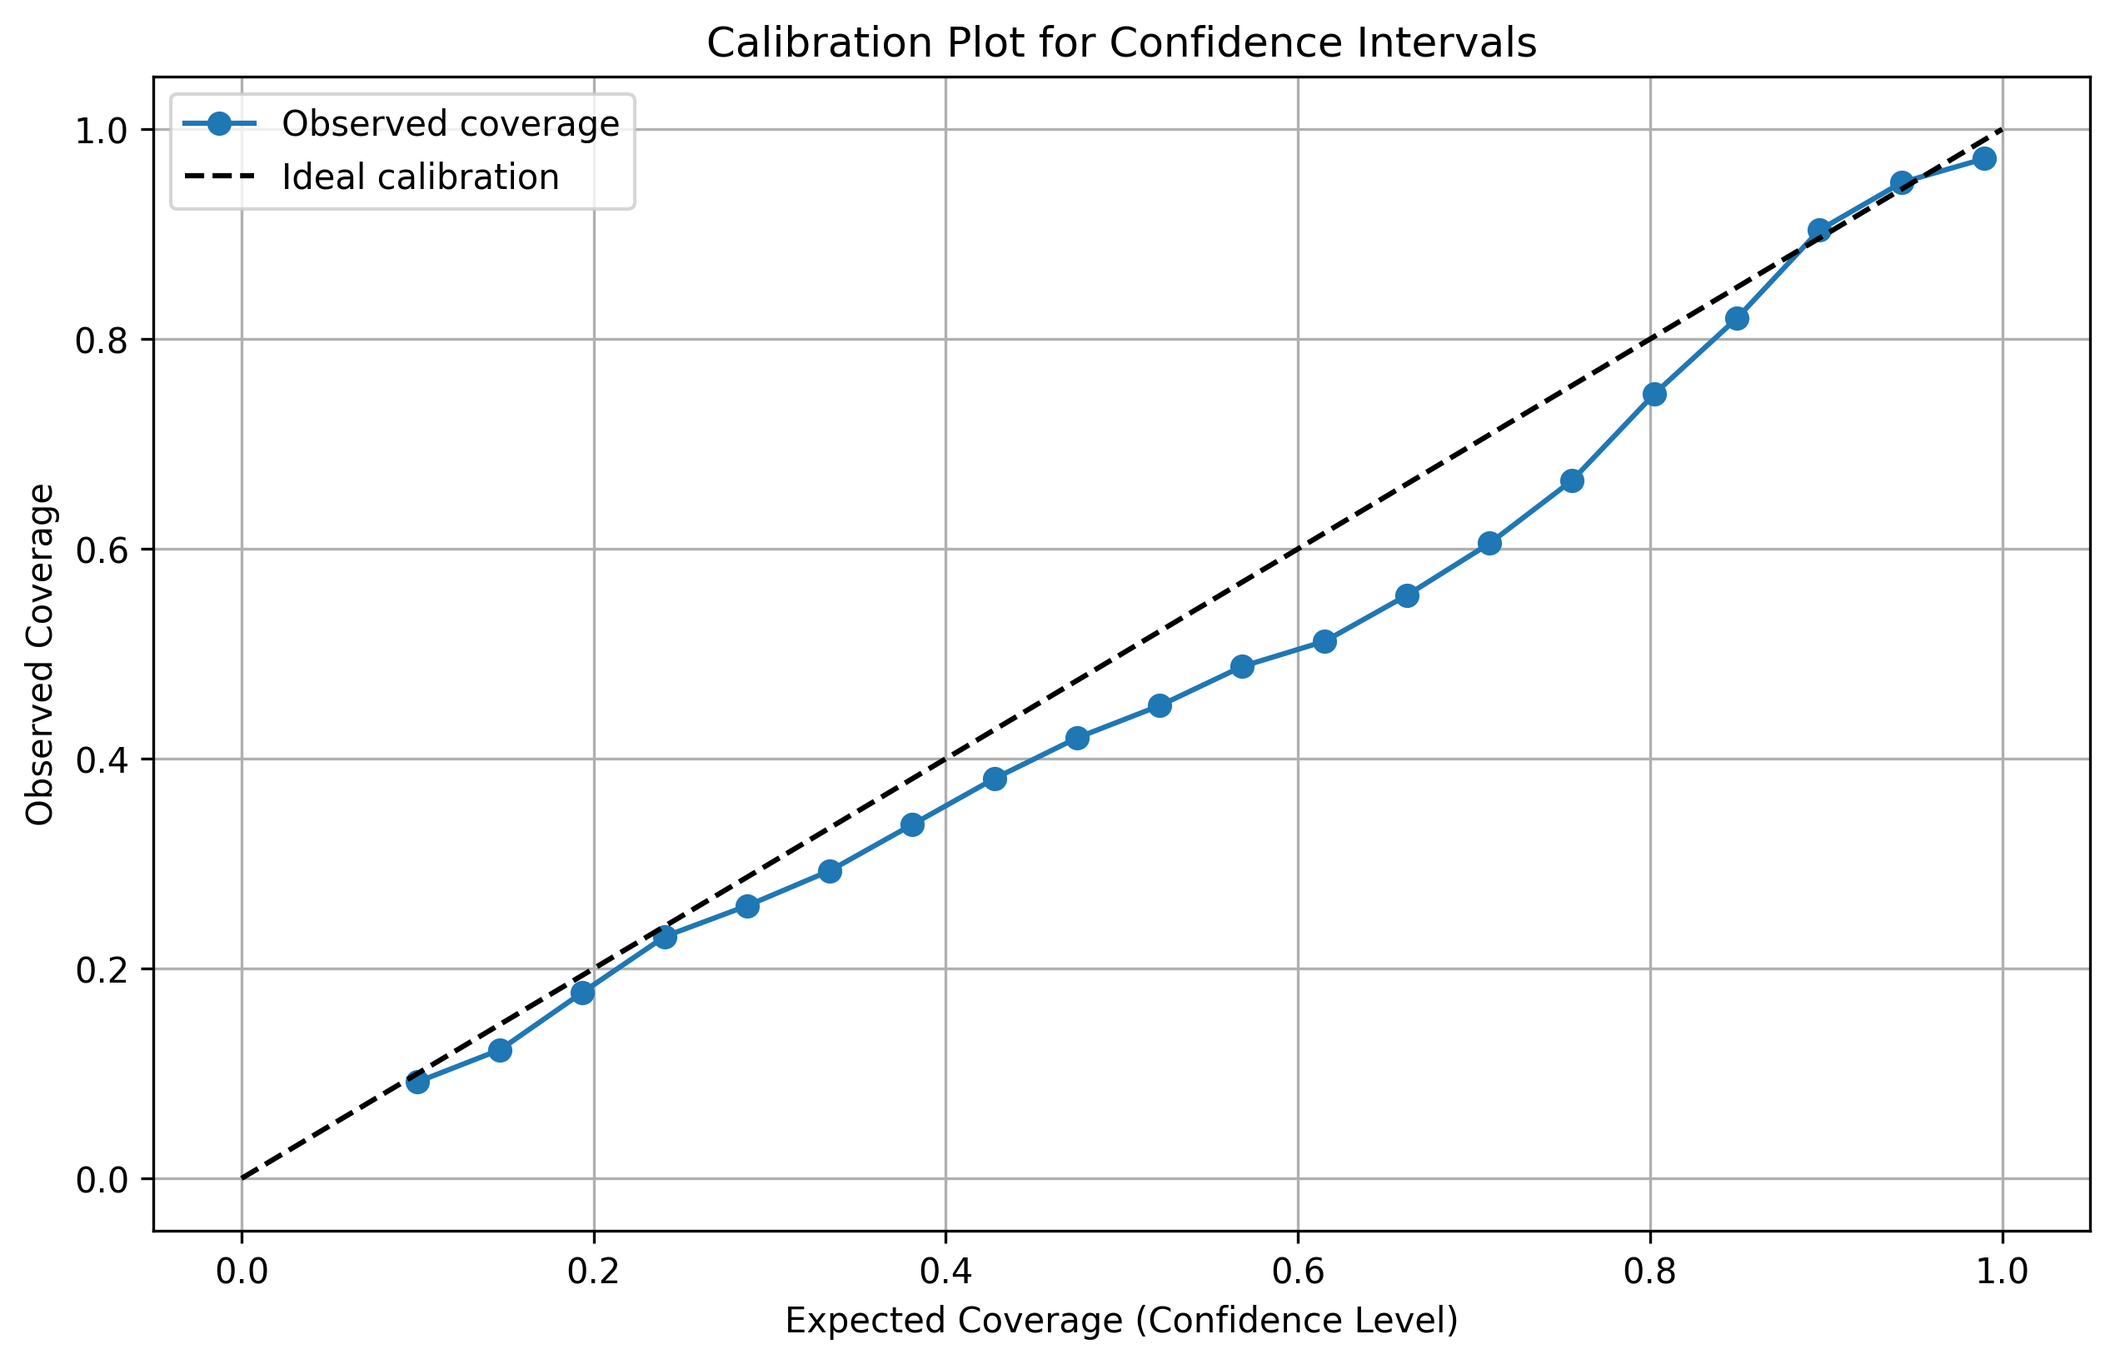
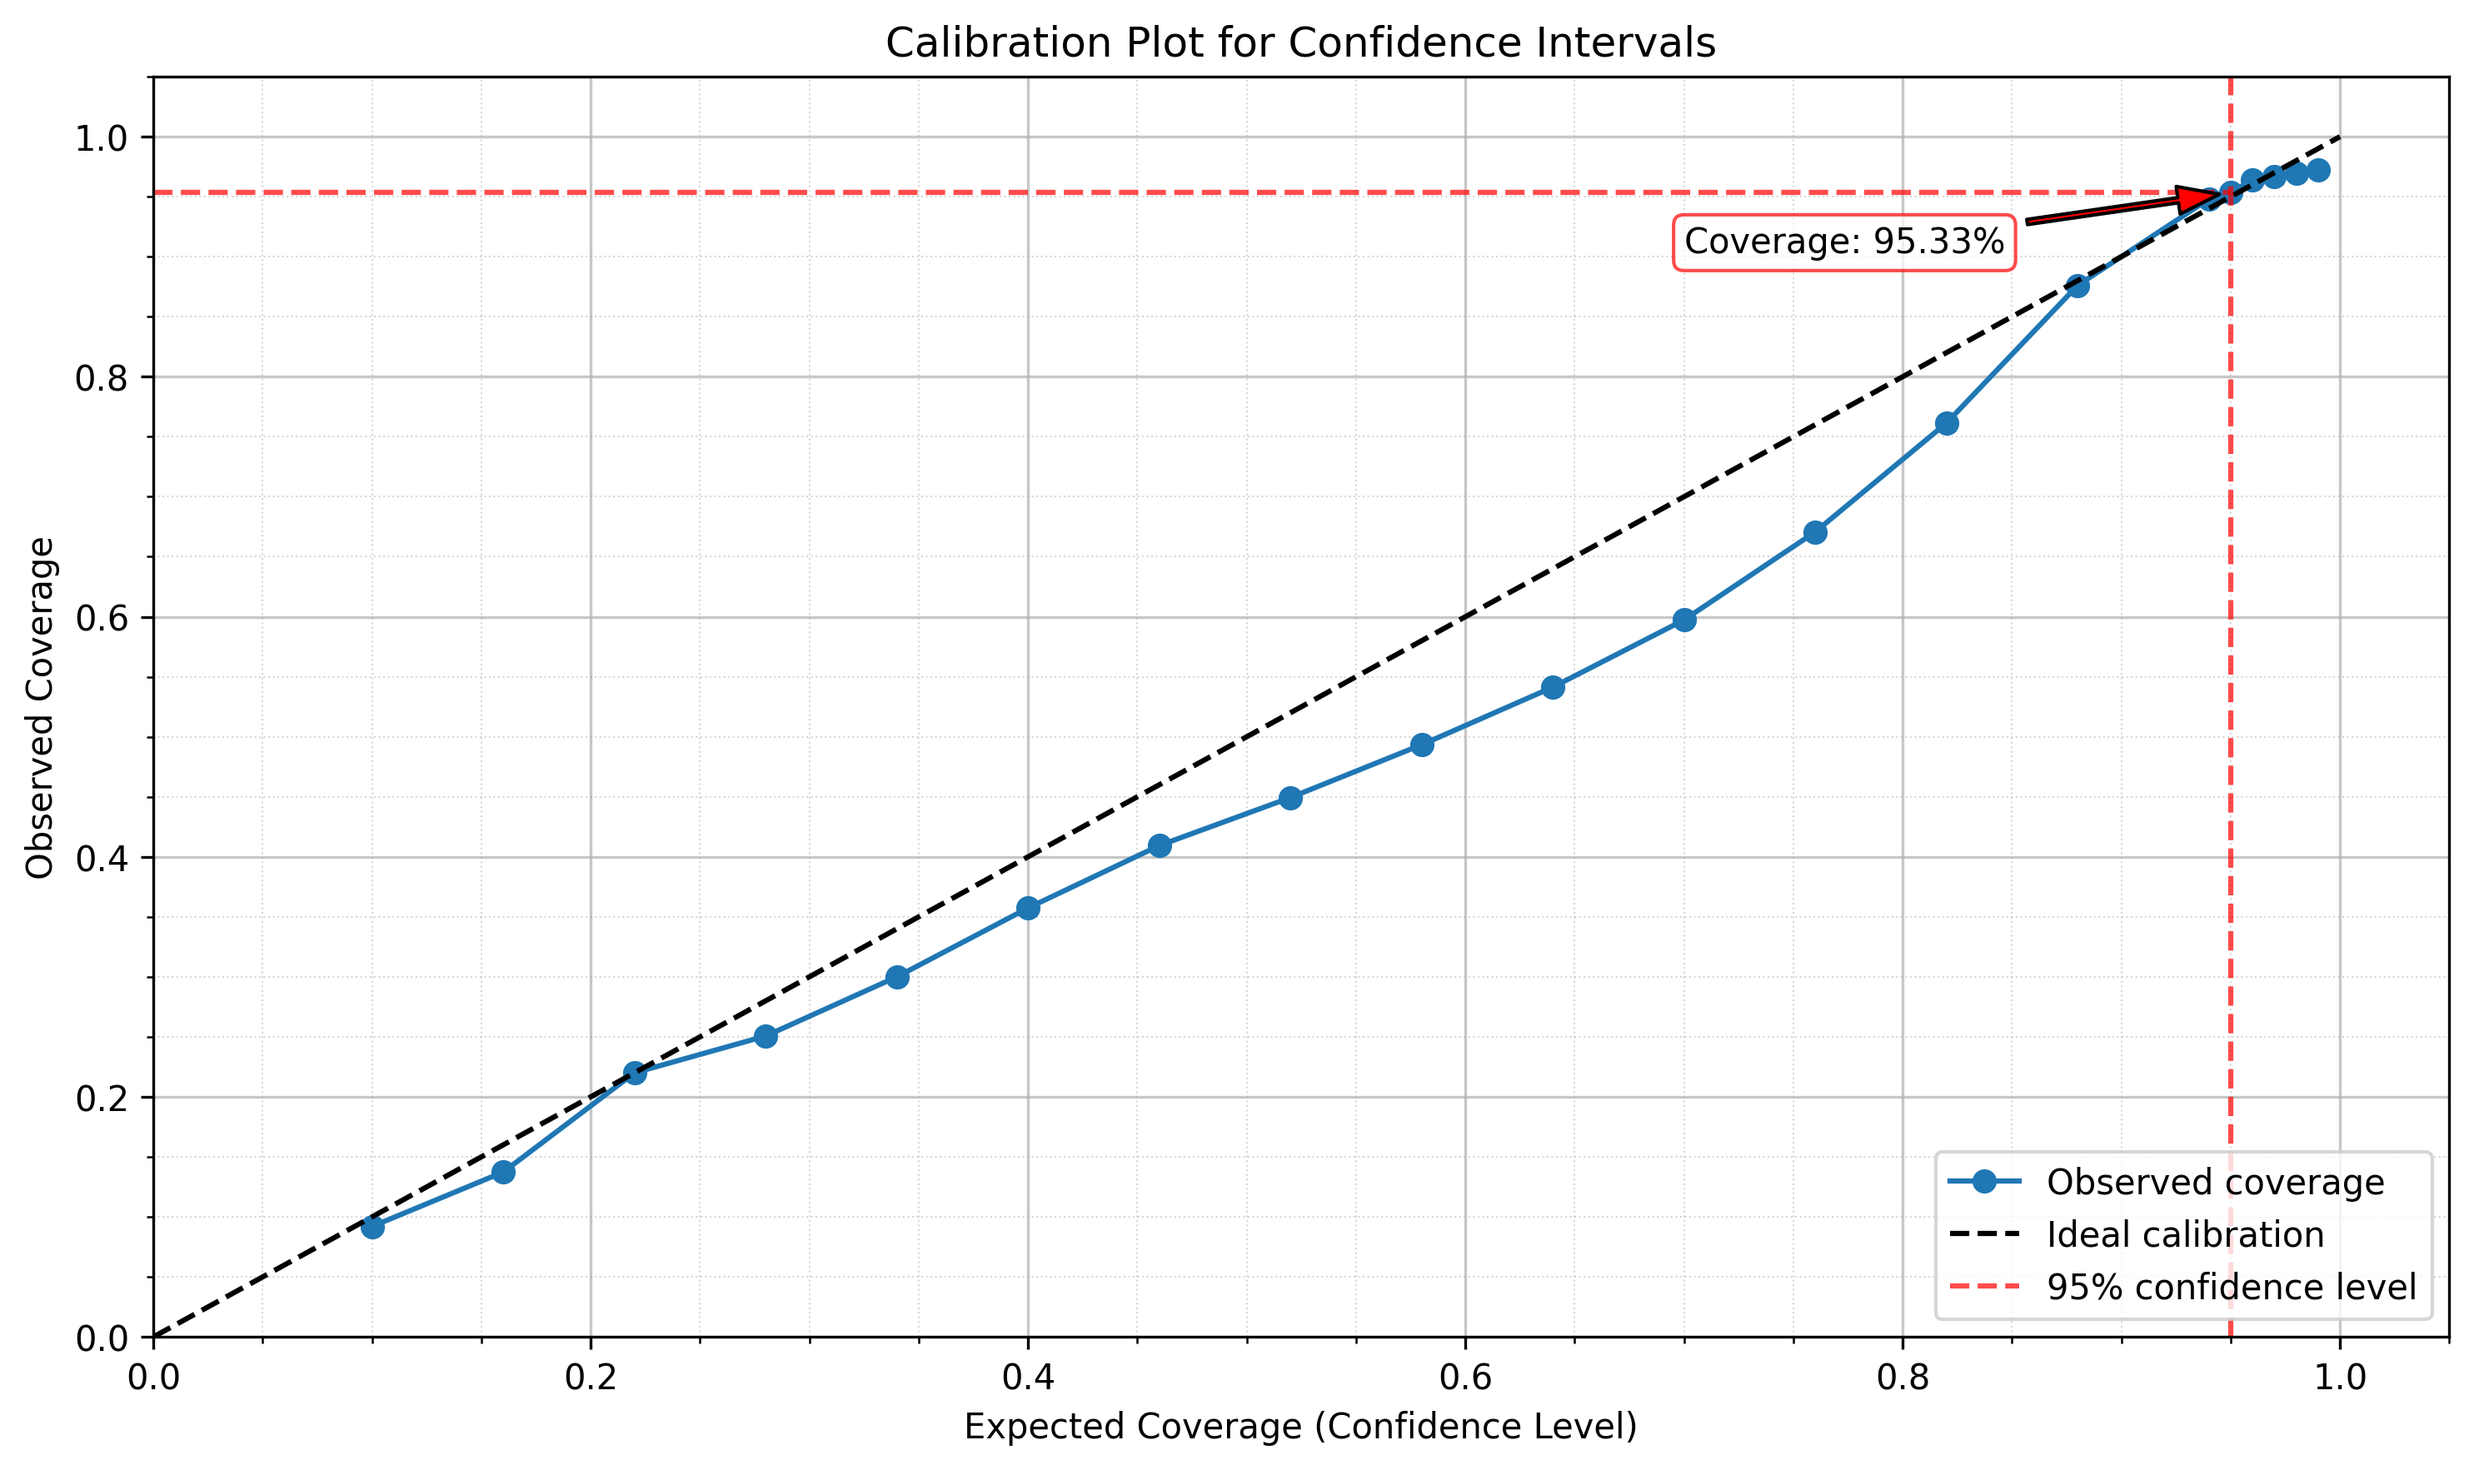
Add better coverage plot

diff --git a/prob_gbt/example.py b/prob_gbt/example.py
@@ -217,7 +217,10 @@ def main():
     
     # 4. Calibration plot - checking if confidence intervals are well-calibrated
     print("\nCreating calibration plot for confidence intervals...")
-    confidence_levels = np.linspace(0.1, 0.99, 20)
+    # Create confidence levels array with 0.95 included exactly
+    confidence_levels_1 = np.linspace(0.1, 0.94, 15)
+    confidence_levels_2 = np.linspace(0.96, 0.99, 4)
+    confidence_levels = np.concatenate([confidence_levels_1, np.array([0.95]), confidence_levels_2])
     observed_coverages = []
     
     for conf_level in confidence_levels:
@@ -228,11 +231,40 @@ def main():
     plt.figure(figsize=(10, 6))
     plt.plot(confidence_levels, observed_coverages, 'o-', label='Observed coverage')
     plt.plot([0, 1], [0, 1], 'k--', label='Ideal calibration')
+    
+    # Add vertical line at 95% confidence level
+    plt.axvline(x=0.95, color='r', linestyle='--', alpha=0.7, label='95% confidence level')
+    
+    # Find the observed coverage at 95% confidence level (or closest to it)
+    idx_95 = np.abs(confidence_levels - 0.95).argmin()
+    coverage_at_95 = observed_coverages[idx_95]
+    
+    # Add horizontal line from the 95% point to the y-axis
+    plt.plot([0, 0.95], [coverage_at_95, coverage_at_95], 'r--', alpha=0.7)
+    
+    # Add annotation for the 95% coverage value
+    plt.annotate(f'Coverage: {coverage_at_95:.2%}', 
+                 xy=(0.95, coverage_at_95),
+                 xytext=(0.7, coverage_at_95 - 0.05),
+                 arrowprops=dict(facecolor='red', shrink=0.05, width=1.5, headwidth=8),
+                 fontsize=10,
+                 bbox=dict(boxstyle="round,pad=0.3", fc="white", ec="red", alpha=0.7))
+    
     plt.xlabel('Expected Coverage (Confidence Level)')
     plt.ylabel('Observed Coverage')
     plt.title('Calibration Plot for Confidence Intervals')
-    plt.grid(True)
-    plt.legend()
+    
+    # Add finer grid
+    plt.grid(True, which='major', linestyle='-', linewidth=0.8, alpha=0.7)
+    plt.grid(True, which='minor', linestyle=':', linewidth=0.5, alpha=0.5)
+    plt.minorticks_on()
+    
+    # Set axis limits for better visualization
+    plt.xlim(0, 1.05)
+    plt.ylim(0, 1.05)
+    
+    plt.legend(loc='lower right')
+    plt.tight_layout()
     plt.savefig('./images/calibration_plot.png', dpi=300, bbox_inches='tight')
     print("Saved calibration plot to ./images/calibration_plot.png")
 
